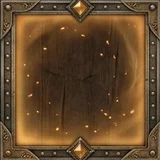
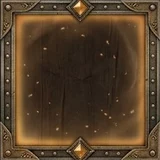
Arcane: aproxima da maquete do Henri
Paredes do castelo nas laterais, torres no topo, escudos nos espaços de
equipamento, moldura de runas no retrato, pergaminho alto, mochila de
madeira com brasão e dragão, barras com ponta, placa de Poder e rodapé com
dragões (artes provisórias recortadas da maquete). Cor das raridades na
mochila mais suave.

Claude-Session: https://claude.ai/code/session_01XDvPPPNtQtBtRrGTU1cwSw

diff --git a/css/tema-arcane.css b/css/tema-arcane.css
@@ -325,3 +325,145 @@ html[data-interface="arcane"] .ranking tr.meu td {
 
 /* ---------- 10. Rodapé ---------- */
 html[data-interface="arcane"] .rodape { border-top: 2px solid var(--ferro-borda); background: linear-gradient(180deg, #12151b, #0b0d11); color: var(--texto-secundario); }
+
+/* ==========================================================================
+   11. Camada "maquete" (Henri, nov/2026): aproxima da imagem de referência.
+   Artes recortadas da maquete em assets/interface/arcane/ (provisórias até
+   chegarem as artes em alta do Gemini).
+   ========================================================================== */
+html[data-interface="arcane"] {
+  --navy: linear-gradient(180deg, #161d2c 0%, #0f1420 100%);
+  --madeira: linear-gradient(180deg, #2b1d13 0%, #1a110b 100%);
+  --ouro-moldura: #9b7a3c;
+}
+/* Fundo: paredes do castelo nas laterais (vitrais, velas e tochas) */
+html[data-interface="arcane"] body {
+  background:
+    url("../assets/interface/arcane/lateral-esq.webp") left top / auto 100vh no-repeat fixed,
+    url("../assets/interface/arcane/lateral-dir.webp") right top / auto 100vh no-repeat fixed,
+    radial-gradient(ellipse at 50% 0%, rgba(217, 172, 84, .07), transparent 55%) fixed,
+    repeating-linear-gradient(0deg, rgba(0, 0, 0, .25) 0 2px, transparent 2px 44px) fixed,
+    linear-gradient(180deg, #14161c, #0b0c10) fixed;
+}
+/* Topo: ameias e torres do castelo atrás do nome */
+html[data-interface="arcane"] .topo {
+  background: url("../assets/interface/arcane/topo-castelo.webp") center bottom / auto 100% no-repeat, linear-gradient(180deg, #0f1218, #0b0d11);
+  border-bottom: 1px solid #000;
+}
+html[data-interface="arcane"] .barra-recursos {
+  background: linear-gradient(180deg, #2a2116 0%, #17120c 100%);
+  border-top: 2px solid var(--ouro-moldura); border-bottom: 2px solid var(--ouro-moldura);
+  box-shadow: inset 0 1px 0 rgba(255, 220, 150, .25), 0 6px 18px rgba(0, 0, 0, .7);
+}
+html[data-interface="arcane"] .recurso { background: linear-gradient(180deg, #1a1d27, #0f1118); border-color: var(--ouro-moldura); }
+
+/* Painéis: azul-noite com moldura dourada dupla */
+html[data-interface="arcane"] .caixa {
+  background: var(--navy);
+  border: 2px solid var(--ouro-moldura);
+  box-shadow: 0 0 0 1px #000, 0 0 0 4px #2a2116, 0 0 0 5px rgba(155, 122, 60, .55),
+    inset 0 0 0 1px rgba(255, 220, 150, .12), inset 0 0 40px rgba(0, 0, 0, .7), 0 14px 30px rgba(0, 0, 0, .8);
+}
+html[data-interface="arcane"] .caixa::before { --t: 26px; --g: 3px; inset: -6px; }
+
+/* Ficha: retrato pequeno com moldura dourada brilhante */
+html[data-interface="arcane"] .ficha .cabeca {
+  padding: .5rem; border: 2px solid #c9a14e; border-radius: 6px;
+  background: linear-gradient(180deg, #1d1a14, #12100c);
+  box-shadow: 0 0 14px rgba(240, 190, 90, .55), inset 0 0 18px rgba(240, 190, 90, .18);
+}
+html[data-interface="arcane"] .ficha .cabeca .moldura { border-color: #e2bb63; box-shadow: 0 0 10px rgba(240, 190, 90, .6); }
+/* Barras com pontas de flecha (Vida e Estamina) */
+html[data-interface="arcane"] .ficha .barra.hp, html[data-interface="arcane"] .ficha .barra.estamina {
+  border-radius: 2px; border-color: #6a5430;
+  clip-path: polygon(9px 0, calc(100% - 9px) 0, 100% 50%, calc(100% - 9px) 100%, 9px 100%, 0 50%);
+}
+html[data-interface="arcane"] .ficha .barra.hp > i, html[data-interface="arcane"] .ficha .barra.estamina > i { border-radius: 0; }
+html[data-interface="arcane"] .barra.estamina > i { background: linear-gradient(180deg, #ffe08a, #e0a52a 55%, #a86d12); }
+html[data-interface="arcane"] .barra.hp > i { background: linear-gradient(180deg, #ff8a7a, #d22f22 55%, #8a1610); }
+/* Brasão de Poder: placa dourada ornamentada */
+html[data-interface="arcane"] .poder-destaque {
+  background: radial-gradient(ellipse at center, rgba(240, 200, 110, .35), transparent 70%), linear-gradient(180deg, #3a2c16, #1c150b);
+  border: 2px solid #c9a14e; border-radius: 4px;
+  box-shadow: 0 0 0 1px #000, 0 0 0 3px #4a3a1e, inset 0 0 0 1px rgba(255, 230, 160, .35), inset 0 0 18px rgba(0, 0, 0, .6), 0 6px 14px rgba(0, 0, 0, .6);
+}
+html[data-interface="arcane"] .poder-ico { border-width: 2px; background: radial-gradient(circle, #5a4320, #1c150b); }
+/* Carta da arma: vinho escuro com fio dourado */
+html[data-interface="arcane"] .arma-carta {
+  background: linear-gradient(180deg, #2a1418, #160b0d); border: 1px solid #8a6a36; border-left-width: 3px;
+  box-shadow: inset 0 0 0 1px rgba(255, 220, 150, .1), inset 0 0 20px rgba(120, 20, 30, .35);
+}
+html[data-interface="arcane"] .arma-stat { background: rgba(10, 6, 7, .55); border-color: rgba(138, 106, 54, .45); }
+
+/* Abas: faixa de couro/ouro */
+html[data-interface="arcane"] .abas-jogo { background: linear-gradient(180deg, #2a2116, #15100a); border: 2px solid var(--ouro-moldura); }
+html[data-interface="arcane"] .abas-jogo button.ativa { background: linear-gradient(180deg, #4a3a20, #241b0e); border-color: #e2bb63; }
+
+/* Personagem: escudos nos espaços vazios e moldura de runas no retrato */
+html[data-interface="arcane"] .boneco { --slot: 72px; }
+html[data-interface="arcane"] .slot.vazio {
+  height: calc(var(--slot) * 1.15); padding: 0; border: 0; opacity: 1; box-shadow: none;
+  background: var(--arcane-escudo, none) center / contain no-repeat;
+  filter: drop-shadow(0 4px 6px rgba(0, 0, 0, .7));
+}
+html[data-interface="arcane"] .slot.vazio > * { visibility: hidden; }
+html[data-interface="arcane"] .espaco-elmo { --arcane-escudo: url("../assets/interface/arcane/escudo-elmo.webp"); }
+html[data-interface="arcane"] .espaco-colar { --arcane-escudo: url("../assets/interface/arcane/escudo-colar.webp"); }
+html[data-interface="arcane"] .espaco-peitoral { --arcane-escudo: url("../assets/interface/arcane/escudo-peitoral.webp"); }
+html[data-interface="arcane"] .espaco-luvas { --arcane-escudo: url("../assets/interface/arcane/escudo-luvas.webp"); }
+html[data-interface="arcane"] .espaco-arma { --arcane-escudo: url("../assets/interface/arcane/escudo-arma.webp"); }
+html[data-interface="arcane"] .espaco-anel1 { --arcane-escudo: url("../assets/interface/arcane/escudo-anel1.webp"); }
+html[data-interface="arcane"] .espaco-secundaria { --arcane-escudo: url("../assets/interface/arcane/escudo-secundaria.webp"); }
+html[data-interface="arcane"] .espaco-anel2 { --arcane-escudo: url("../assets/interface/arcane/escudo-anel2.webp"); }
+html[data-interface="arcane"] .espaco-botas { --arcane-escudo: url("../assets/interface/arcane/escudo-botas.webp"); }
+html[data-interface="arcane"] .personagem-tela {
+  padding: 1rem .6rem; border-radius: 6px;
+  background: radial-gradient(ellipse at 15% 75%, rgba(34, 197, 94, .18), transparent 45%),
+    radial-gradient(ellipse at 60% 30%, rgba(59, 130, 246, .14), transparent 45%),
+    radial-gradient(ellipse at 90% 95%, rgba(168, 85, 247, .2), transparent 45%);
+}
+html[data-interface="arcane"] .retrato-central { border: 0; box-shadow: none; overflow: visible; }
+html[data-interface="arcane"] .retrato-central::before {
+  content: ""; position: absolute; z-index: 2; pointer-events: none; filter: none; animation: arcane-aura 6s ease-in-out infinite;
+  /* janela interna da moldura: 7% / 11% / 8,5% / 10,4% da imagem */
+  left: -8.4%; right: -10.2%; top: -13.6%; bottom: -12.8%; border-radius: 0;
+  background: url("../assets/interface/arcane/moldura-runas.webp") center / 100% 100% no-repeat;
+}
+html[data-interface="arcane"] .retrato-central::after { border-radius: 4px; }
+/* Bônus dos equipamentos: pergaminho alto com cantos dourados */
+html[data-interface="arcane"] .personagem-tela .lateral { align-self: stretch; }
+html[data-interface="arcane"] .personagem-tela .lateral .caixa-interna {
+  min-height: 100%; padding: 1rem 1.1rem;
+  background: radial-gradient(ellipse at 50% 40%, #e3d2ad, #c7ae83 70%, #a98d60 100%);
+  border: 2px solid #7a5a2c; border-radius: 3px;
+  box-shadow: 0 0 0 1px #2a1c0c, inset 0 0 0 4px rgba(122, 90, 44, .25), inset 0 0 30px rgba(80, 50, 20, .45), 0 8px 18px rgba(0, 0, 0, .7);
+  font-family: Georgia, 'EB Garamond', serif;
+}
+
+/* Mochila: painel de madeira com o brasão, o castelo e o dragão em cima */
+html[data-interface="arcane"] .pg-mochila {
+  position: relative; margin-top: 2.6rem; padding: .8rem; border-radius: 4px;
+  background: var(--madeira); border: 2px solid var(--ouro-moldura);
+  box-shadow: 0 0 0 1px #000, inset 0 0 30px rgba(0, 0, 0, .6);
+}
+html[data-interface="arcane"] .pg-mochila::before {
+  content: ""; position: absolute; right: -8px; top: -62px; width: 66%; height: 72px; pointer-events: none;
+  background: url("../assets/interface/arcane/mochila-brasao.webp") right bottom / contain no-repeat;
+}
+html[data-interface="arcane"] .pg-mochila > h3.subtitulo { position: absolute; top: -2.2rem; left: 0; margin: 0; }
+html[data-interface="arcane"] .mochila-abas { border-bottom-color: var(--ouro-moldura); }
+html[data-interface="arcane"] .mochila-abas button { background: linear-gradient(180deg, #2a1d13, #1a110b); border: 1px solid #5a4326; border-bottom: 0; color: var(--texto-secundario); }
+html[data-interface="arcane"] .mochila-abas button.ativa { color: #ffe0a0; background: linear-gradient(180deg, #6a2a1a, #3a160d); border-color: #c9a14e; }
+html[data-interface="arcane"] .mochila-barra { background: rgba(10, 6, 3, .55); border-color: rgba(155, 122, 60, .45); }
+
+/* Rodapé de ferro com dragões */
+html[data-interface="arcane"] .rodape {
+  position: relative; padding: 1.4rem 16px; font-family: var(--fonte-titulo); color: #c9bfa8;
+  background: url("../assets/interface/arcane/rodape-dragao-esq.webp") calc(50% - 175px) center / auto 100% no-repeat,
+    url("../assets/interface/arcane/rodape-dragao-dir.webp") calc(50% + 180px) center / auto 100% no-repeat,
+    linear-gradient(180deg, #1a1c22, #0b0c10);
+  border-top: 2px solid #4a4f5a;
+}
+/* escudos por cima da moldura de runas (como na maquete) */
+html[data-interface="arcane"] .boneco .espaco { position: relative; z-index: 3; }
+html[data-interface="arcane"] .rodape { display: block; width: 100%; box-sizing: border-box; }

diff --git a/jogar/index.html b/jogar/index.html
@@ -30,7 +30,7 @@
       if (cel) { t = 'zealot'; document.documentElement.setAttribute('data-celular', ''); }
       document.documentElement.setAttribute('data-interface', t);
       if (t === 'zealot') document.write('<link rel="stylesheet" href="css/tema-sombrio-cores.css?v=122"><link rel="stylesheet" href="css/tema-sombrio.css?v=135">');
-      if (t === 'arcane') document.write('<link rel="stylesheet" href="css/tema-arcane.css?v=1">');   // Arcane (Henri, nov/2026): só no computador
+      if (t === 'arcane') document.write('<link rel="stylesheet" href="css/tema-arcane.css?v=5">');   // Arcane (Henri, nov/2026): só no computador
     })();
   </script>
   <link rel="stylesheet" href="css/celular.css?v=22">

diff --git a/ferramentas/artifact.html b/ferramentas/artifact.html
@@ -15,7 +15,7 @@
     if (cel) { t = 'zealot'; document.documentElement.setAttribute('data-celular', ''); }
     document.documentElement.setAttribute('data-interface', t);
     if (t === 'zealot') document.write('<link rel="stylesheet" href="css/tema-sombrio-cores.css?v=122"><link rel="stylesheet" href="css/tema-sombrio.css?v=135">');
-      if (t === 'arcane') document.write('<link rel="stylesheet" href="css/tema-arcane.css?v=1">');   // Arcane (Henri, nov/2026): só no computador
+      if (t === 'arcane') document.write('<link rel="stylesheet" href="css/tema-arcane.css?v=5">');   // Arcane (Henri, nov/2026): só no computador
   })();
 </script>
 <link rel="stylesheet" href="css/celular.css?v=22">

diff --git a/docs/notas-tecnicas.md b/docs/notas-tecnicas.md
@@ -895,4 +895,8 @@ gravar em `dados`, ela precisa manter/subir a `versao`.
 - Base: CSS do Gemini (paleta castelo/ferro/ouro velho/arcano, Cinzel + Inter), aplicado nas classes reais (`.caixa`,
   `.abas-jogo`, `.sub-abas`, `.barra.*`, `.poder-destaque`, `.btn`, `.slot`/`.celula`, `.ranking`, `.leilao-lote`...).
 - Molduras dos itens: `assets/interface/arcane/slot-<comum|rara|conjunto|epica|lendaria|vazio>.webp`, recortadas da
-  referência do Henri (`--arcane-slot` em cada `.borda-*`). Bônus dos equipamentos vira pergaminho.
+  referência do Henri (`--arcane-slot` em cada `.borda-*`), com a cor da raridade suavizada. Bônus dos equipamentos vira pergaminho.
+- Camada "maquete" (seção 11 do CSS): artes **provisórias** recortadas da maquete do Henri (baixa resolução): paredes do
+  castelo nas laterais (`lateral-esq/dir`), torres no topo, escudos nos espaços vazios (`escudo-<espaço>`, via `--arcane-escudo`),
+  moldura de runas no retrato (`moldura-runas`, em `.retrato-central::before`), brasão/castelo/dragão em cima da mochila e
+  dragões no rodapé. Trocar pelas versões em alta do Gemini quando chegarem (mesmos nomes de arquivo).
